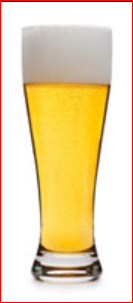
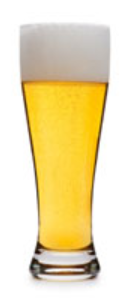
sacados bordes rojos. agregado landscape layout

Changed region(s): [[0.125, 0.0604, 0.875, 0.9664], [0.0, 0.0, 1.0, 1.0], [0.5312, 0.2718, 0.6562, 0.302]]

diff --git a/slidesandroid.md b/slidesandroid.md
@@ -89,7 +89,7 @@ _findViewById()_ es un método que nos permite acceder a los elementos definidos
 
 ---
 
-# Interfaces
+## Interfaces
 Parecidas a una "clase abstracta"
 Son un "Contrato": las clases que **implementan** a una interfaz deben implementar sus métodos.  
 Ej: La interfaz "animal" podría incluir métodos como "moverse", "comer", etc. Todos los animales deben implementar esos métodos, pero todos lo hacen de forma distinta. 
@@ -97,7 +97,7 @@ Ej: La interfaz "animal" podría incluir métodos como "moverse", "comer", etc. 
 
 ---
 
-# Listeners
+## Listeners
 Esperan (*escuchan*) eventos generados por el usuario (clicks, etc.)  y ejecutan métodos como respuesta.  
 Implementan interfaces pre-definidas en el SDK (aunque se pueden crear interfaces propias).  
 Cada interfaz responde a un tipo de evento distinto (*OnClick*, *OnLongClick*, *onTextChange*, etc).
@@ -124,11 +124,12 @@ imagen.setOnClickListener(myListener);
 
 ---
 
-# Como Empezar
+## Como Empezar
 **onCreate ()**  
 Es uno de los métodos heredados de Activity, corresponde a una transición en el ciclo de vida. Es responsable de cargar el layout, obtener referencias a las Views se van a usar, y definir sus comportamientos.  
  
  --- 
+  
 ```java
 protected void onCreate(Bundle savedInstanceState) {
     super.onCreate(savedInstanceState);
@@ -144,3 +145,22 @@ protected void onCreate(Bundle savedInstanceState) {
     input.addTextChangedListener(escuchaTexto); 
 };
 ```
+ 
+---
+ 
+## Resources  
+<img src="allresources.png" img style="float: right;">  
+
+#### drawable  
+Almacena imagenes a las que accedemos mediante R.drawable.[nombre-sin-extension]
+
+#### values  
+Guarda strings (distintos idiomas) , definiciones de colores y estilos.
+ 
+---
+ 
+## Múltiples Layouts
+<img src="resources.png" img style="float: right;">  
+
+Podemos definir múltiples layouts para una misma activity, y Android seleccionará el más adecuado para el dispositivo que la esté corriendo.  
+Todos los layouts deben tener las mismas views con la misma Id, sino tendremos una excepción en tiempo de ejecución cuando querramos obtener referencias a una View inexistente.
